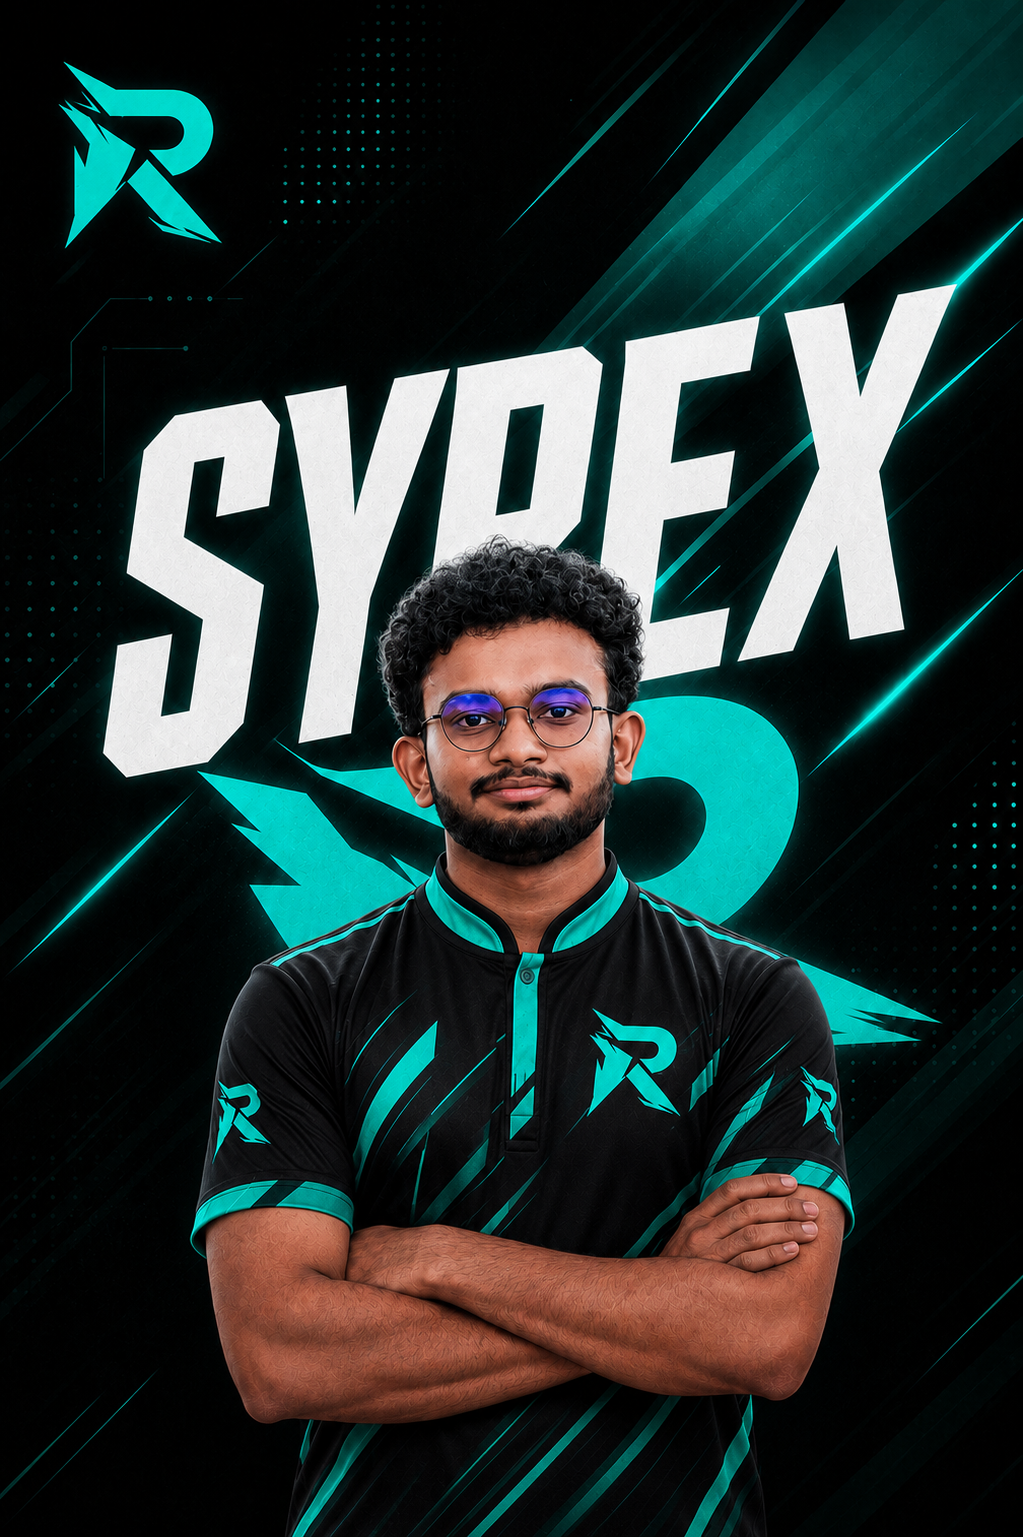
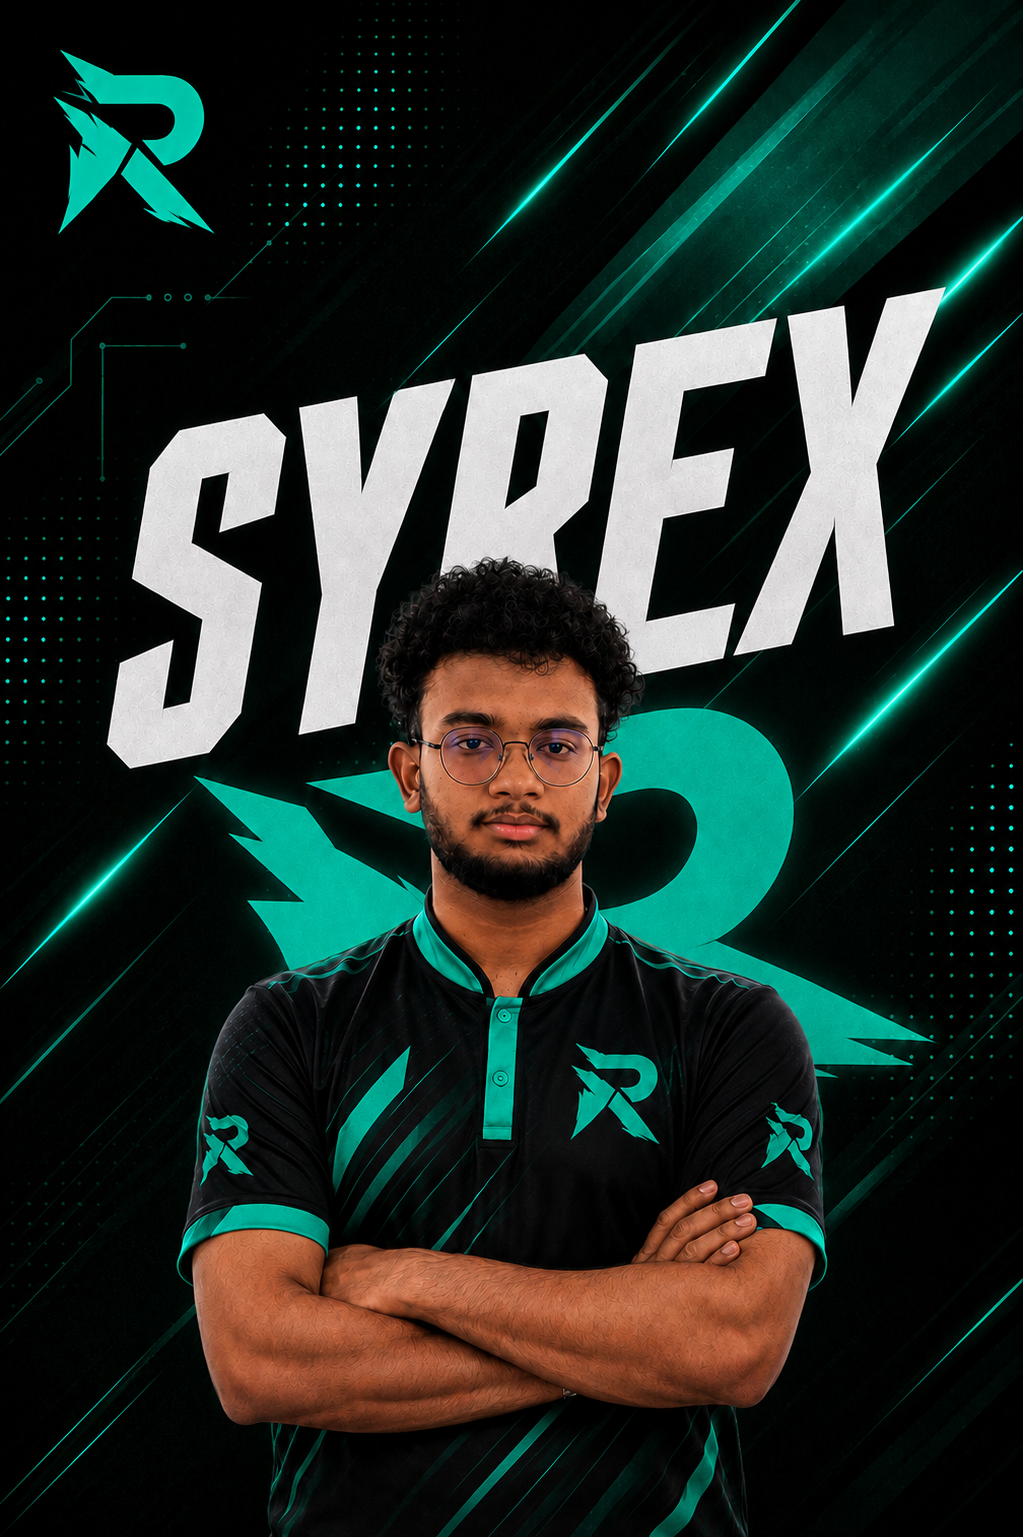
web chathuraa

diff --git a/app/components/Tournaments.tsx b/app/components/Tournaments.tsx
@@ -11,6 +11,7 @@ interface Tournament {
   tag: string;
   image: string;
   registrationLink: string;
+  closing: string;
 }
 
 async function getTournaments(): Promise<Tournament[]> {
@@ -36,6 +37,7 @@ async function getTournaments(): Promise<Tournament[]> {
         tag: row.c[7]?.v ?? "",
         image: row.c[8]?.v ?? "",
         registrationLink: row.c[9]?.v ?? "",
+        closing:row.c[10]?.v ?? "",
       }))
       // Filter out header row and invalid/empty rows
       .filter(
@@ -151,7 +153,11 @@ export default async function Tournaments() {
                     </div>
                   </div>
 
-                  {t.registrationLink ? (
+                  {t.closing?.toUpperCase() === "CLOSED" ? (
+                    <button disabled className="w-full py-4 bg-red-500/20 text-red-400 font-black text-xs uppercase tracking-widest rounded-xl border border-red-500/30 cursor-not-allowed">
+                      Registrations Closed
+                    </button>
+                  ) : t.registrationLink ? (
                     <a
                       href={t.registrationLink}
                       target="_blank"

diff --git a/app/components/ContactSection.tsx b/app/components/ContactSection.tsx
@@ -1,10 +1,12 @@
 import Image from "next/image";
 
 const footerSocials = [
-  { name: "WHATSAPP", href: "#" },
-  { name: "DISCORD", href: "https://discord.gg/74RtuZmh2" },
-  { name: "TIKTOK", href: "https://discord.gg/74RtuZmh2" },
   { name: "YOUTUBE", href: "https://www.youtube.com/@riselkgaming" },
+  { name: "TIKTOK", href: "https://discord.gg/74RtuZmh2" },
+  { name: "DISCORD", href: "https://discord.gg/74RtuZmh2" },
+  { name: "WHATSAPP", href: "#" },
+  { name: "INSTAGRAM", href: "https://discord.gg/74RtuZmh2" },
+
 ];
 
 export default function ContactSection() {

diff --git a/app/components/GamesSection.tsx b/app/components/GamesSection.tsx
@@ -9,6 +9,7 @@ export default function GamesSection() {
     { name: "Valorant", image: "/games/Valorant.jpg" },
     { name: "Counter Strike 2", image: "/games/CS2.jpg" },
     { name: "Mobile Legends", image: "/games/MobileLegend.jpg" },
+    { name: "Overwatch", image: "/games/Overwatch.jpg" },
     { name: "Rainbow Six", image: "/games/Seige.jpg" },
   ];
 

diff --git a/app/components/AboutUs.tsx b/app/components/AboutUs.tsx
@@ -58,6 +58,7 @@ const mainSocials = {
   youtube: "https://www.youtube.com",
   tiktok: "https://www.tiktok.com",
   discord: "https://discord.gg/74RtuZmh2",
+  instagram: "",
 };
 
 export default function AboutUs() {

diff --git a/app/components/Hero.tsx b/app/components/Hero.tsx
@@ -1,6 +1,7 @@
 const mainSocials = {
   youtube: "https://www.youtube.com",
   tiktok: "https://www.tiktok.com",
+  instagram: "",
   // discord: "https://discord.gg/74RtuZmh2",
 };
 
